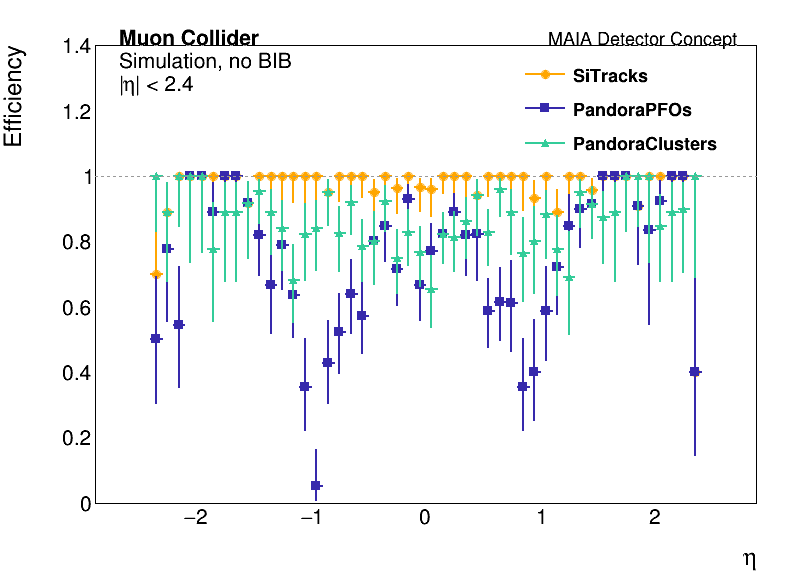
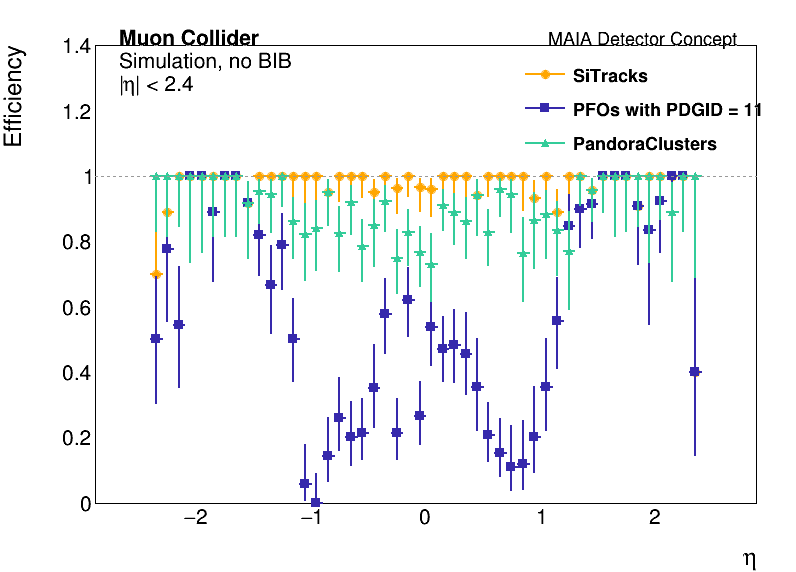
calostudies

diff --git a/mucolstudies/earlyCalibrationStudies.py b/mucolstudies/earlyCalibrationStudies.py
@@ -1,0 +1,89 @@
+import math
+import glob
+import ROOT
+import pyLCIO
+import os
+
+exec(open("./plotHelper.py").read())
+ROOT.gROOT.SetBatch()
+
+PLOT_DIR = "/scratch/jwatts/mucol/mucolstudies/plots2026"
+os.makedirs(PLOT_DIR, exist_ok=True)
+file_path = "/scratch/jwatts/mucol/data/reco/electronGun_pT_0_50/electronGun_pT_0_50_reco_4.slcio"
+
+h_sum_ratios = ROOT.TH1F("h_sum_ratios", "Sum of E/p Ratios", 48, -2.4, 2.4)
+h_count = ROOT.TH1F("h_count", "Particle Count", 48, -2.4, 2.4)
+
+reader = pyLCIO.IOIMPL.LCFactory.getInstance().createLCReader()
+
+total_mc_electrons = 0
+matched_electrons = 0
+
+try:
+    reader.open(file_path)
+    print(f"Reading file: {file_path}")
+
+    for event in reader:
+        mcps = event.getCollection("MCParticle")
+        trks = event.getCollection("SiTracks")
+        clusters = event.getCollection("PandoraClusters")
+
+        for mcp in mcps:
+            if mcp.getGeneratorStatus() != 1 or abs(mcp.getPDG()) != 11: 
+                continue
+            
+            mcp_tlv = getTLV(mcp)
+            mcp_eta = mcp_tlv.Eta()
+            
+            if mcp_tlv.E() < 10 or abs(mcp_eta) > 2.4: 
+                continue
+
+            total_mc_electrons += 1
+
+            best_trk_p = -1
+            min_trk_dr = 0.2 
+            for t in trks:
+                trk_tlv = getTrackTLV(t)
+                dr = mcp_tlv.DeltaR(trk_tlv)
+                if dr < min_trk_dr:
+                    min_trk_dr = dr
+                    best_trk_p = trk_tlv.P() 
+
+            best_clu_e = -1
+            min_clu_dr = 0.2
+            for c in clusters:
+                clu_tlv = getClusterTLV(c)
+                dr = mcp_tlv.DeltaR(clu_tlv)
+                if dr < min_clu_dr:
+                    min_clu_dr = dr
+                    best_clu_e = c.getEnergy() 
+
+            if best_trk_p > 0 and best_clu_e > 0:
+                matched_electrons += 1
+                ep_ratio = best_clu_e / best_trk_p
+                
+                h_sum_ratios.Fill(mcp_eta, ep_ratio)
+                h_count.Fill(mcp_eta, 1)
+
+    reader.close()
+except Exception as e: print(f"Error: {e}")
+
+# 5. Calculate the final Average(E/p) as a function of Eta
+h_avg_ep = h_sum_ratios.Clone("h_avg_ep")
+h_avg_ep.Divide(h_count)
+
+h_map = {"Average E/p per Particle": h_avg_ep}
+plotHistograms(
+    h_map, 
+    os.path.join(PLOT_DIR, "ecal_avg_ep_vs_eta.png"), 
+    xlabel="#eta", 
+    ylabel="Mean(E_{cluster} / p_{track})", 
+    atltext=["Muon Collider", "Simulation, no BIB", "|#eta| < 2.4", "MAIA Detector Concept"]
+)
+
+# PRINT STATISTICS
+print("ECAL CALIBRATION STATISTICS")
+print(f"Total MC Electrons:  {total_mc_electrons}")
+print(f"Matched Electrons:   {matched_electrons}")
+if total_mc_electrons > 0:
+    print(f"Matching Efficiency: {100.0*matched_electrons/total_mc_electrons:.1f}%")

diff --git a/mucolstudies/electronStudies3.py b/mucolstudies/electronStudies3.py
@@ -10,7 +10,7 @@ ROOT.gROOT.SetBatch()
 PLOT_DIR = "/scratch/jwatts/mucol/mucolstudies/plots2026"
 os.makedirs(PLOT_DIR, exist_ok=True)
 
-samples = glob.glob("/scratch/jwatts/mucol/data/reco/electronGun_pT_0_50/electronGun_pT_0_50_reco_4.slcio")
+samples = glob.glob("/scratch/jwatts/mucol/data/reco/electronGun_pT_0_50/electronGun_pT_0_50_reco_5.slcio")
 files = {"electronGun_pT_0_50": samples}
 
 label_map = {"electronGun_pT_0_50": "0-50 GeV"}
@@ -69,7 +69,7 @@ for s in hists:
     
     display_names = {
         "trk_el_match": "SiTracks",
-        "pfo_el_match": "PandoraPFOs",
+        "pfo_el_match": "PFOs with PDGID = 11",
         "clusters_el_match": "PandoraClusters"
     }
 
